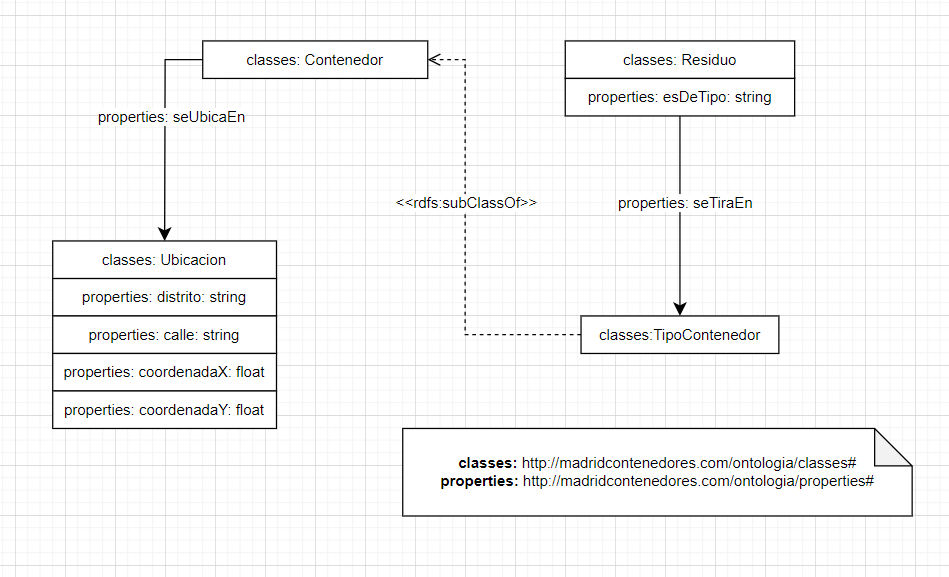
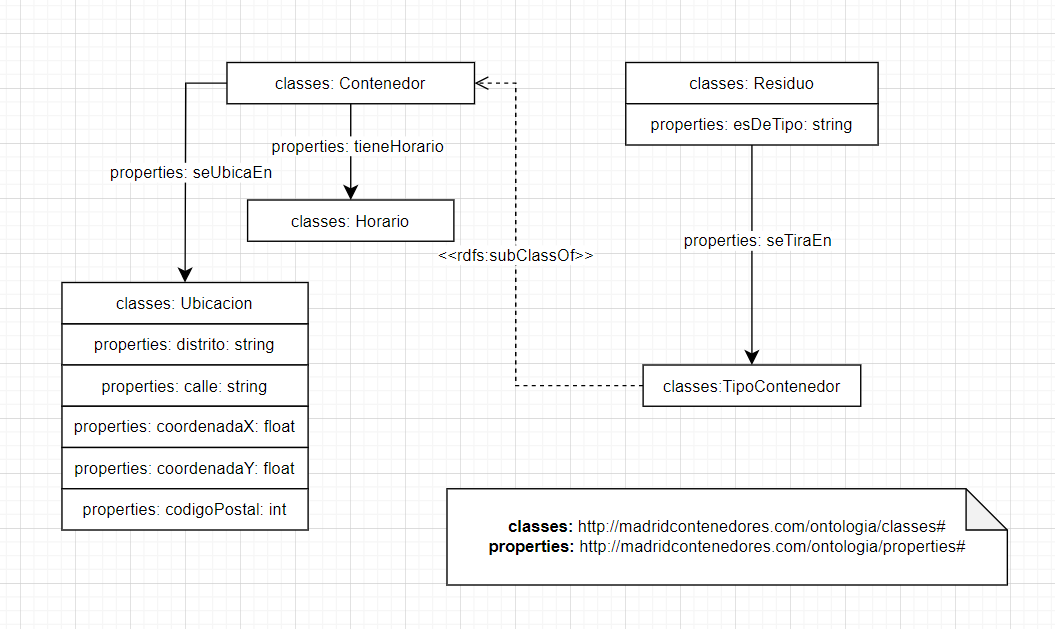
Update HandsOn2

diff --git a/HandsOn/Group04/analysis.html b/HandsOn/Group04/analysis.html
@@ -50,7 +50,7 @@
 
         <tr>
 
-            <td>TIPO</td>
+            <td>TIPO DE CONTENEDOR</td>
             <td>String</td>
             <td> Indica el tipo de contenedor(punto limpio,ropa,pilas,etc)</td>
         
@@ -97,6 +97,15 @@
 
 		
 		</tr>
+
+		<tr>
+
+			<td>CÓDIGO POSTAL</td>
+			<td>Int</td>
+			<td>Indica el código postal donde se ubica el contenedor</td>
+
+		
+		</tr>
 		</tbody>
 
 		</table>
@@ -111,17 +120,19 @@
 					<li>Contenedor</li>
 					<li>Ubicación</li>
 					<li>Residuos</li>
-                    <li>Tipo de Contenedor(Subclass of Contenedor)</li>
+					<li>Horario</li>
+                    <li>Tipo de Contenedor (Subclass of Contenedor)</li>
 				</ul>
 			</li>
 			<li><b>Properties: </b><a href="https://www.madridcontenedores.com/properties#">https://www.madridcontenedores.com/properties#</a> 
 				<ul>
-					<li type="circle">Se tira en</li>
-					<li type="circle">Se ubica en</li>
-					<li type="circle">Coordenada X</li>
-					<li type="circle">Coordenada Y</li>
-					<li type="circle">Distrito</li>
-					<li type="circle">Dirección</li>
+					<li type="circle">se tira en</li>
+					<li type="circle">se ubica en</li>
+					<li type="circle">coordenada X</li>
+					<li type="circle">coordenada Y</li>
+					<li type="circle">distrito</li>
+					<li type="circle">dirección</li>
+					<li type="circle">código postal</li>
 				</ul>
 			</li>
 			<li><b>Individuals: </b><a href="https://www.madridcontenedores.com/individuals#">https://www.madridcontenedores.com/individuals#</a> </li>
